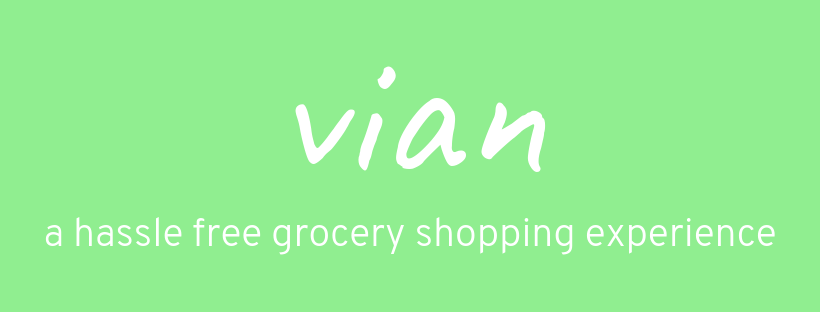
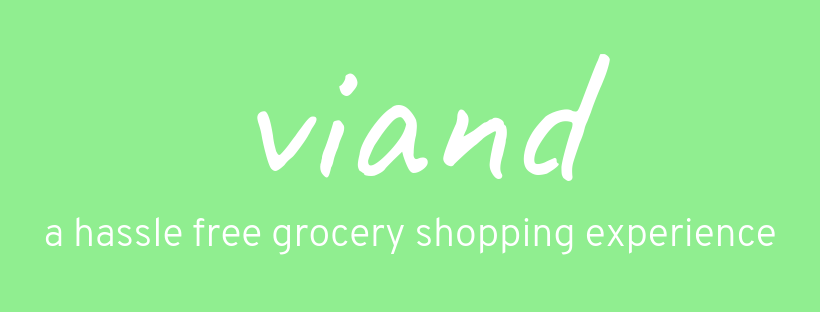
Create home page to select store

Changed region(s): [[0.3049, 0.1731, 0.7622, 0.5769], [0.3963, 0.2019, 0.4878, 0.3173]]

diff --git a/home.html b/home.html
@@ -1,0 +1,34 @@
+<!DOCTYPE html>
+<html lang="en">
+  <head>
+    <meta charset="UTF-8">
+    <title>Viand</title>
+    <script src="script.js"></script>
+    <link rel="stylesheet" href="style.css">
+    <link rel="stylesheet" href="normalize.css">
+    <link href="https://fonts.googleapis.com/css?family=Bad+Script" rel="stylesheet"> 
+    <link href="https://fonts.googleapis.com/css?family=Poppins:300" rel="stylesheet"> 
+    <link href='https://fonts.googleapis.com/css?family=Open+Sans:700,600' rel='stylesheet' type='text/css'>
+    <script src="//ajax.googleapis.com/ajax/libs/jquery/1.9.0/jquery.min.js" type="text/javascript"></script>
+  </head>
+  <body>
+    <div class = "wrapper">
+      <header>
+        <img src="images/viand.png" id="icon" alt="Viand, A Hassle Free Grocery Shopping Experience">
+        <div class="navigation">
+          <ul>
+            <li><strong><a href="index.html">LOG OUT</a></strong></li>
+          </ul>
+        </div>
+      </header>
+      <div class="display">
+        <h1>Select Your Store</h1>
+      </div>
+      <footer>
+        <section class="footer">
+          <h6>Anna Benson, Peter Menke, Emma Prager </h6>
+        </section>
+      </footer>
+    </div>
+  </body>
+</html>

diff --git a/style.css b/style.css
@@ -7,7 +7,7 @@ a:link, a:visited {
 }
 
 a:hover, a:active {
-  color:  #3498db ;
+  color:  white;
   text-decoration: none;
 }
 
@@ -15,7 +15,7 @@ a:hover, a:active {
   background-color: lightgreen;
   margin: 0 auto 0 auto;
   height: 100%;
-  width: 100%;
+  width: 60%;
   padding-top: 0;
 }
 
@@ -128,4 +128,26 @@ img {
 
 .navigation ul li {
   display:inline;
+}
+
+#viand {
+  width: 100%;
+  height: auto;
+  margin: 0 auto 0 auto;
+}
+
+.header {
+  height: 15%;
+  width: 100%;
+}
+
+.display {
+  width: 100%
+  margin: 0 auto 0 auto;
+}
+
+#icon {
+  width: 50%;
+  float: left;
+  margin: 0 auto 0 auto;
 }
